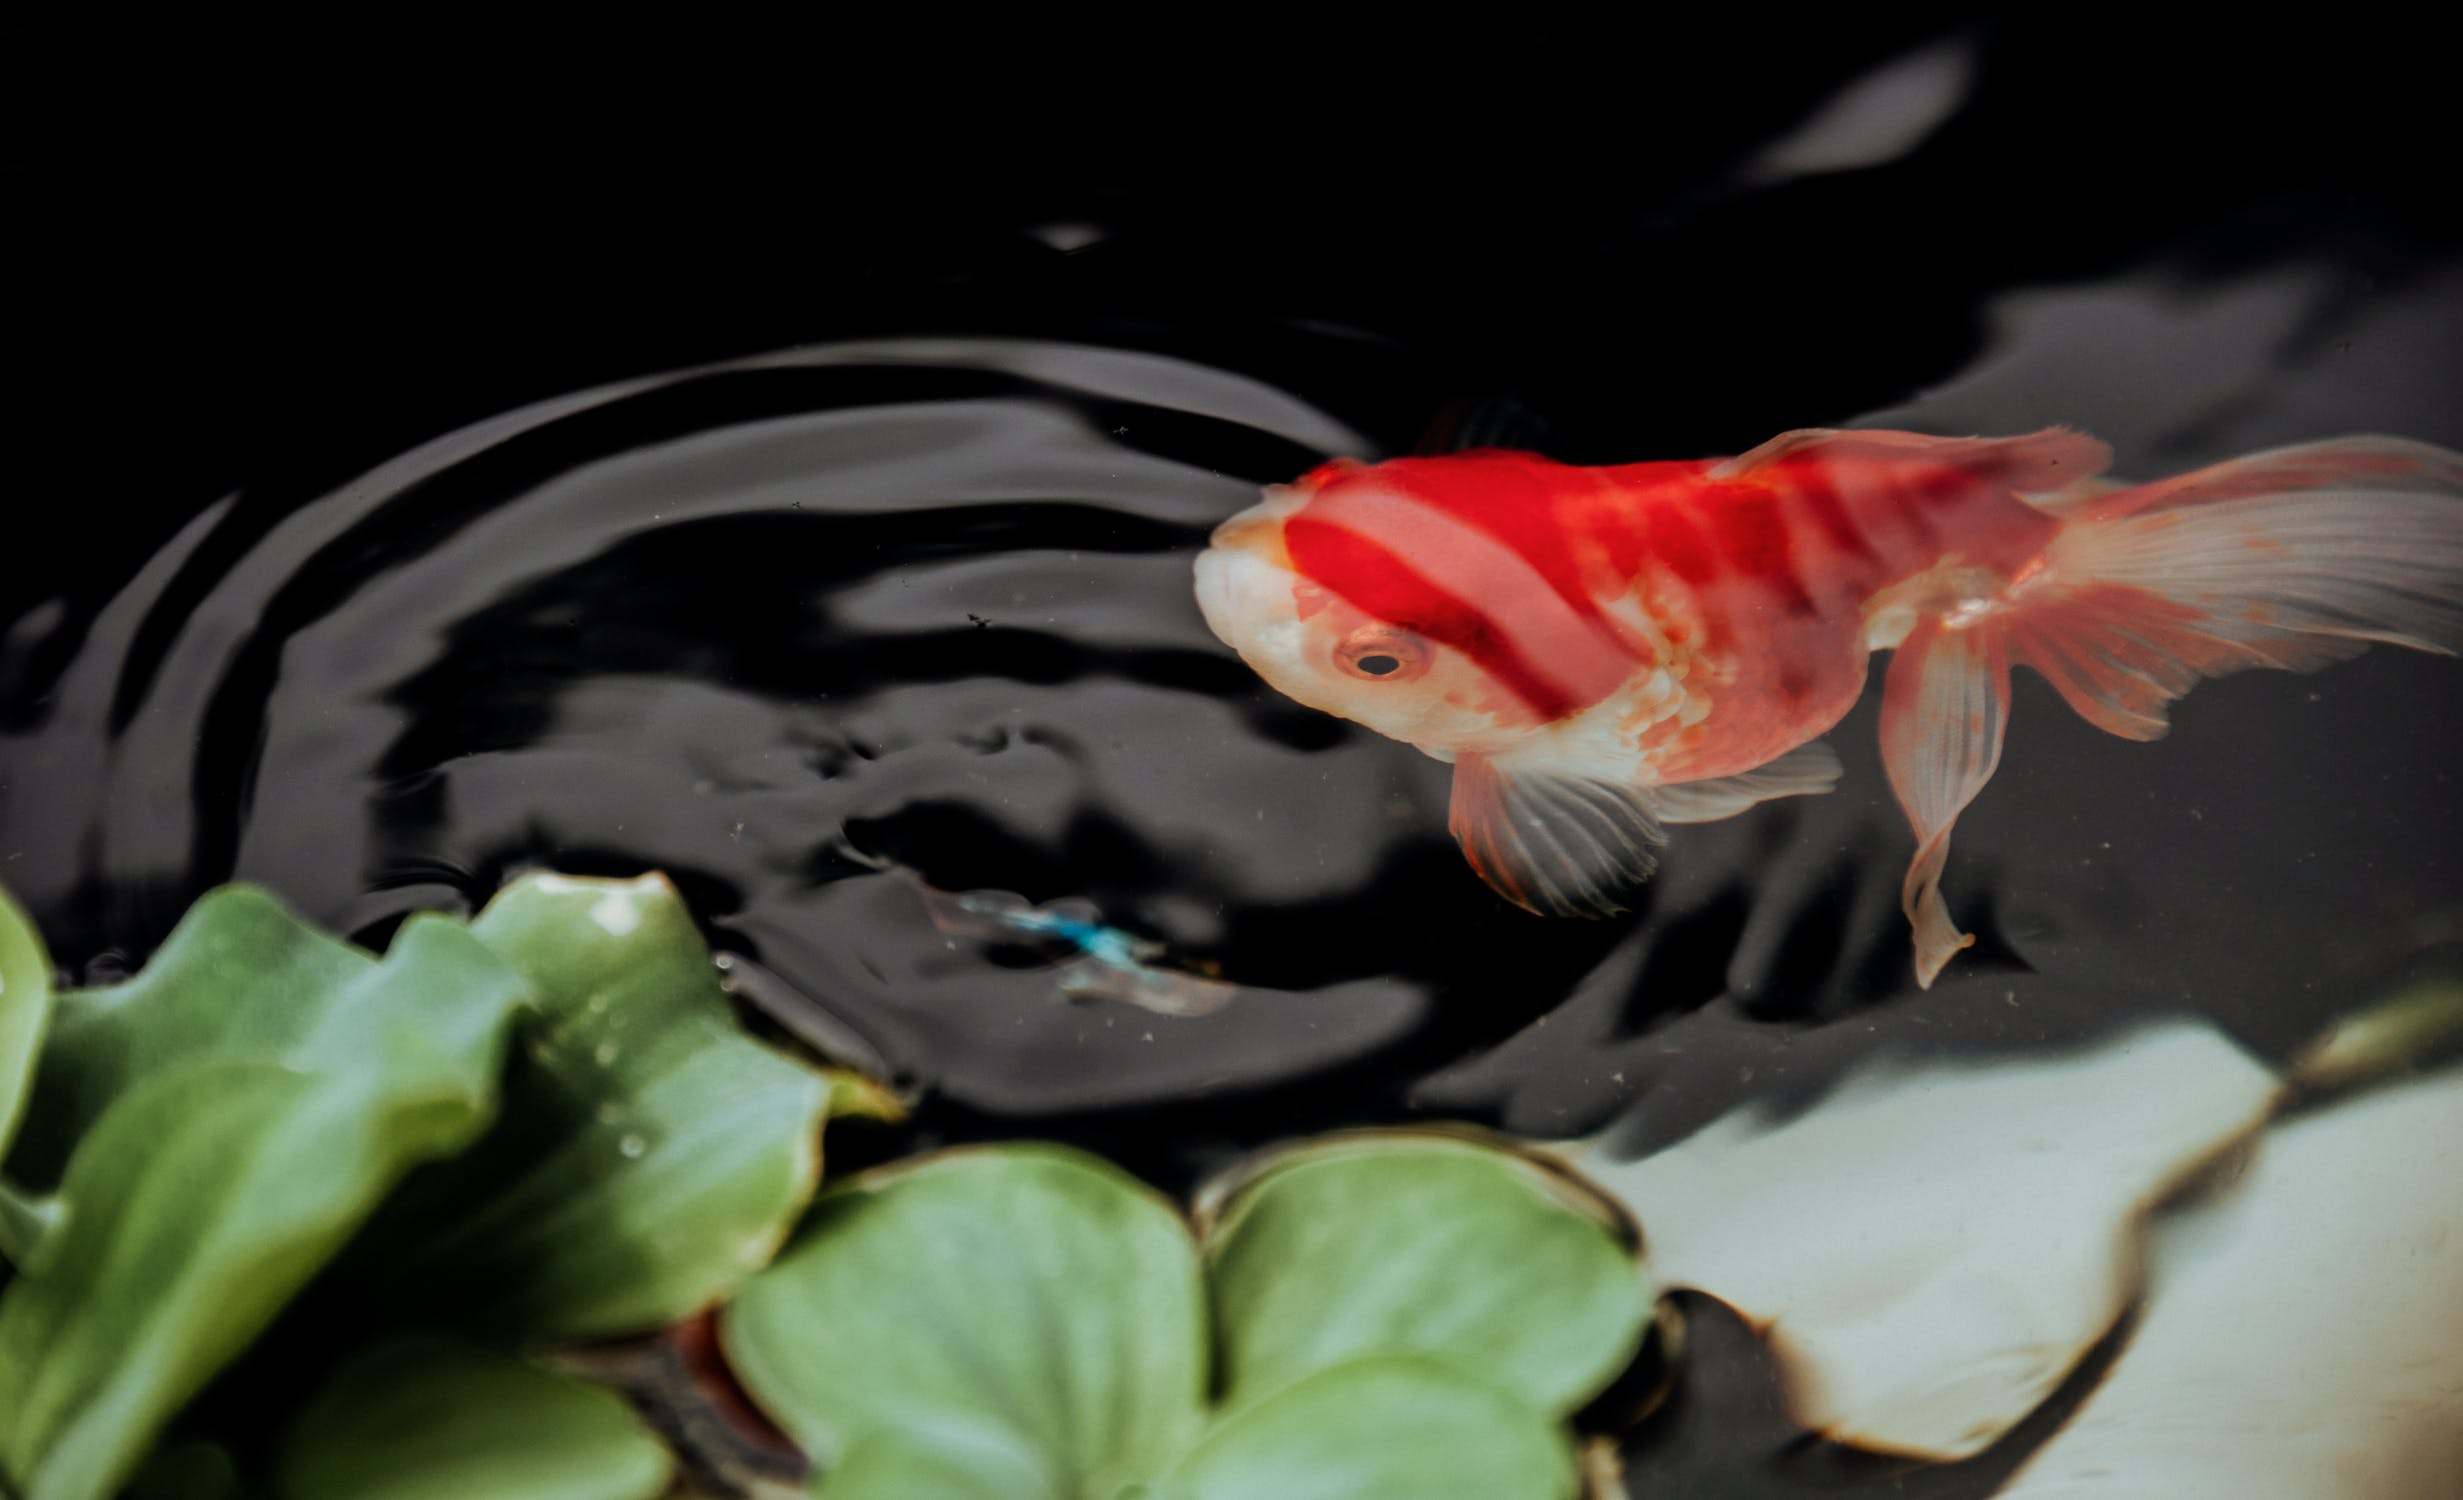
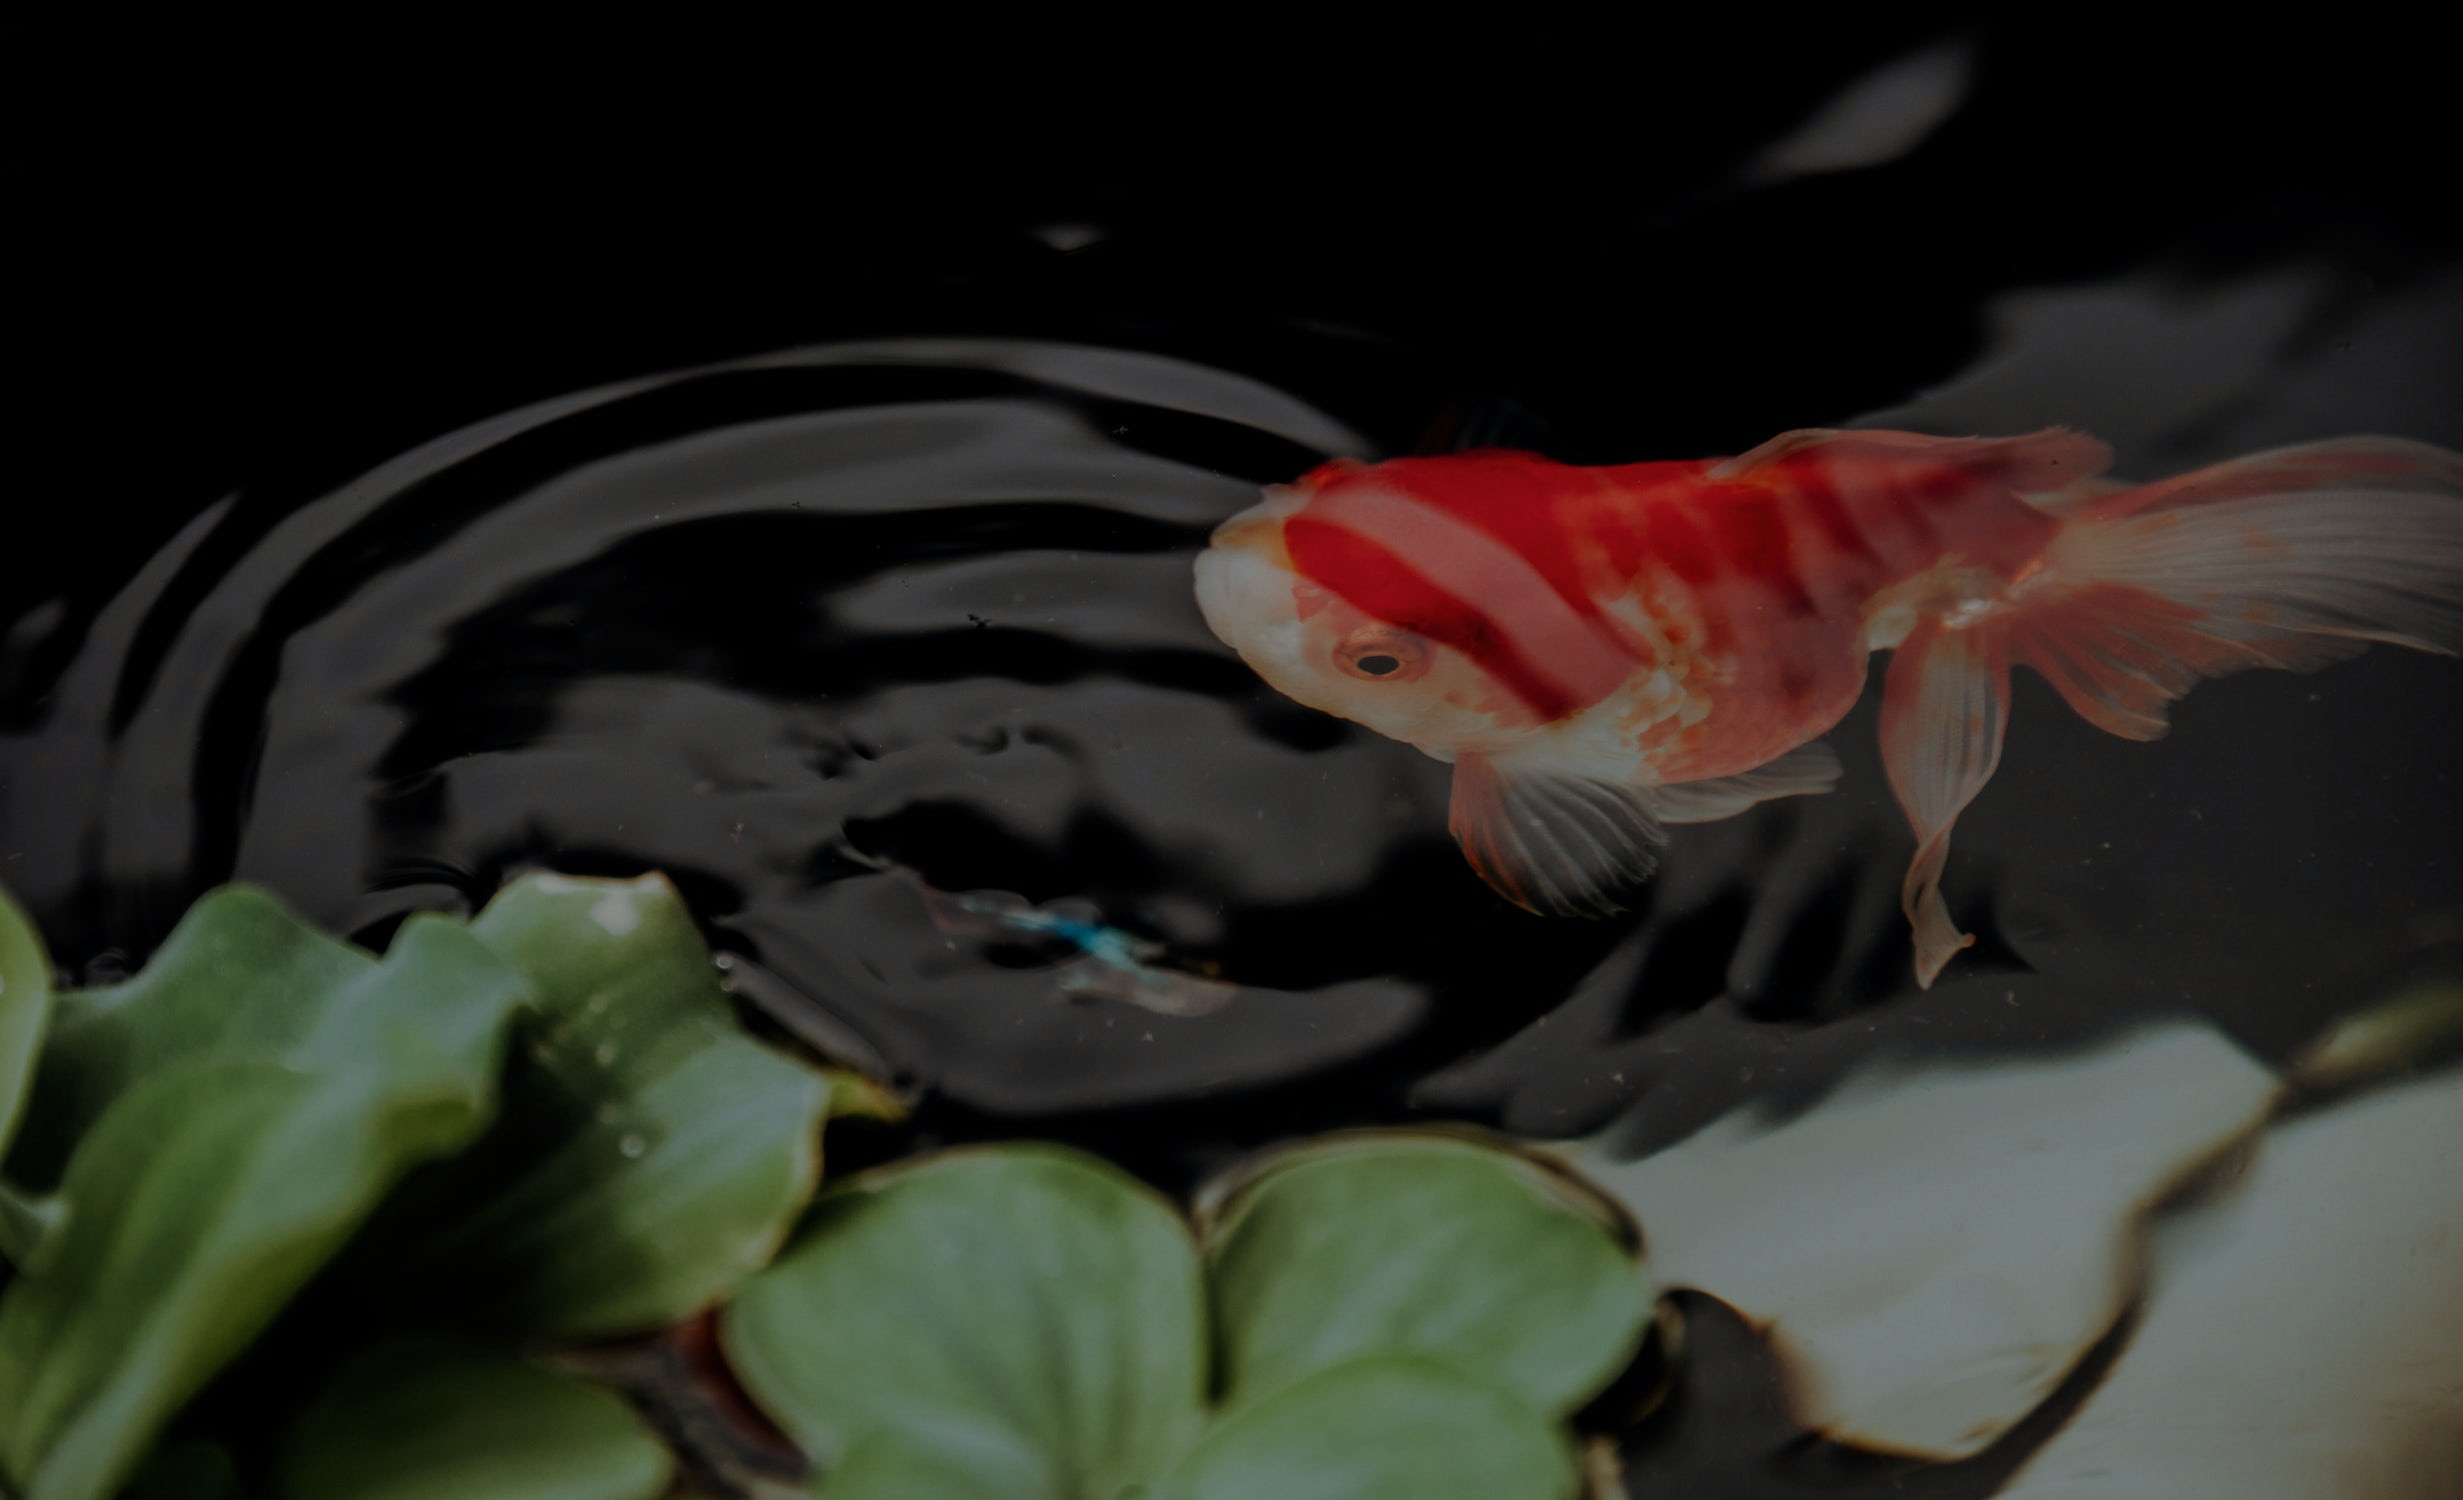
changed background image and fixed scaling issues on mobile

diff --git a/components/Slogan.js b/components/Slogan.js
@@ -19,7 +19,7 @@ import UpperU from "../public/images/letters/UpperU.png";
 import LowerL from "../public/images/letters/LowerL.png";
 import LowerT from "../public/images/letters/LowerT.png";
 import UpperY from "../public/images/letters/UpperY.png";
-import koi from "../public/images/koi.jpeg";
+import koi from "../public/images/underwater_rocks.jpg";
 import $ from "jquery";
 
 const Slogan = () => {
@@ -44,8 +44,10 @@ const Slogan = () => {
       style={{
         backgroundSize: "cover",
         height: "100vh",
+        minWidth: "354px",
         position: "relative",
         backgroundImage: ` url(${koi.src})`,
+        
       }}
     >
       <div
